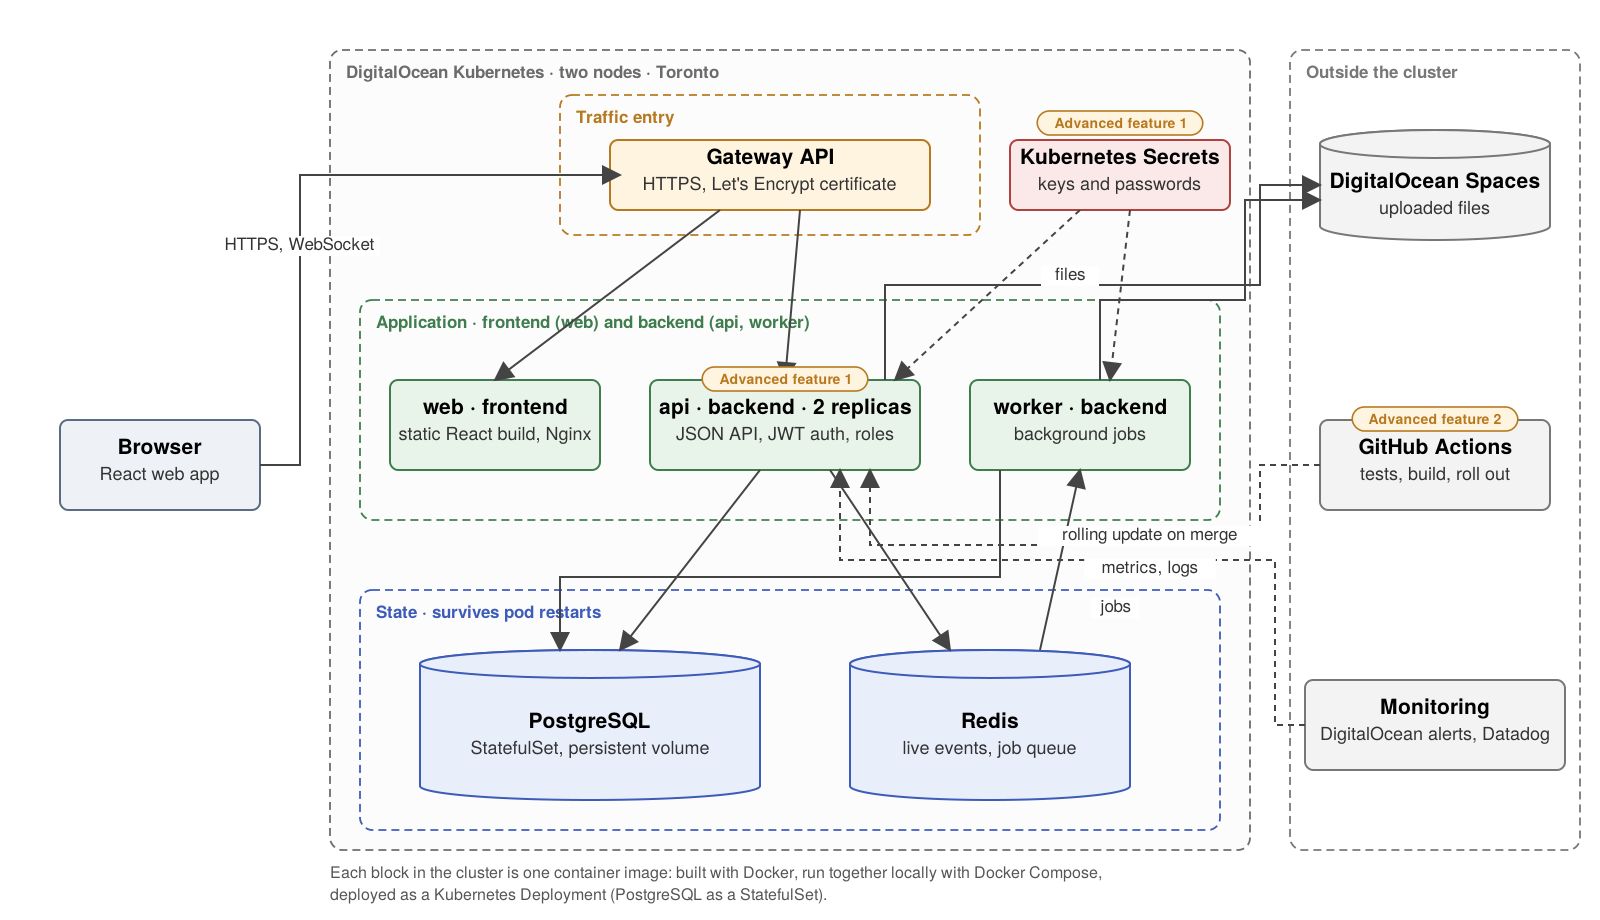
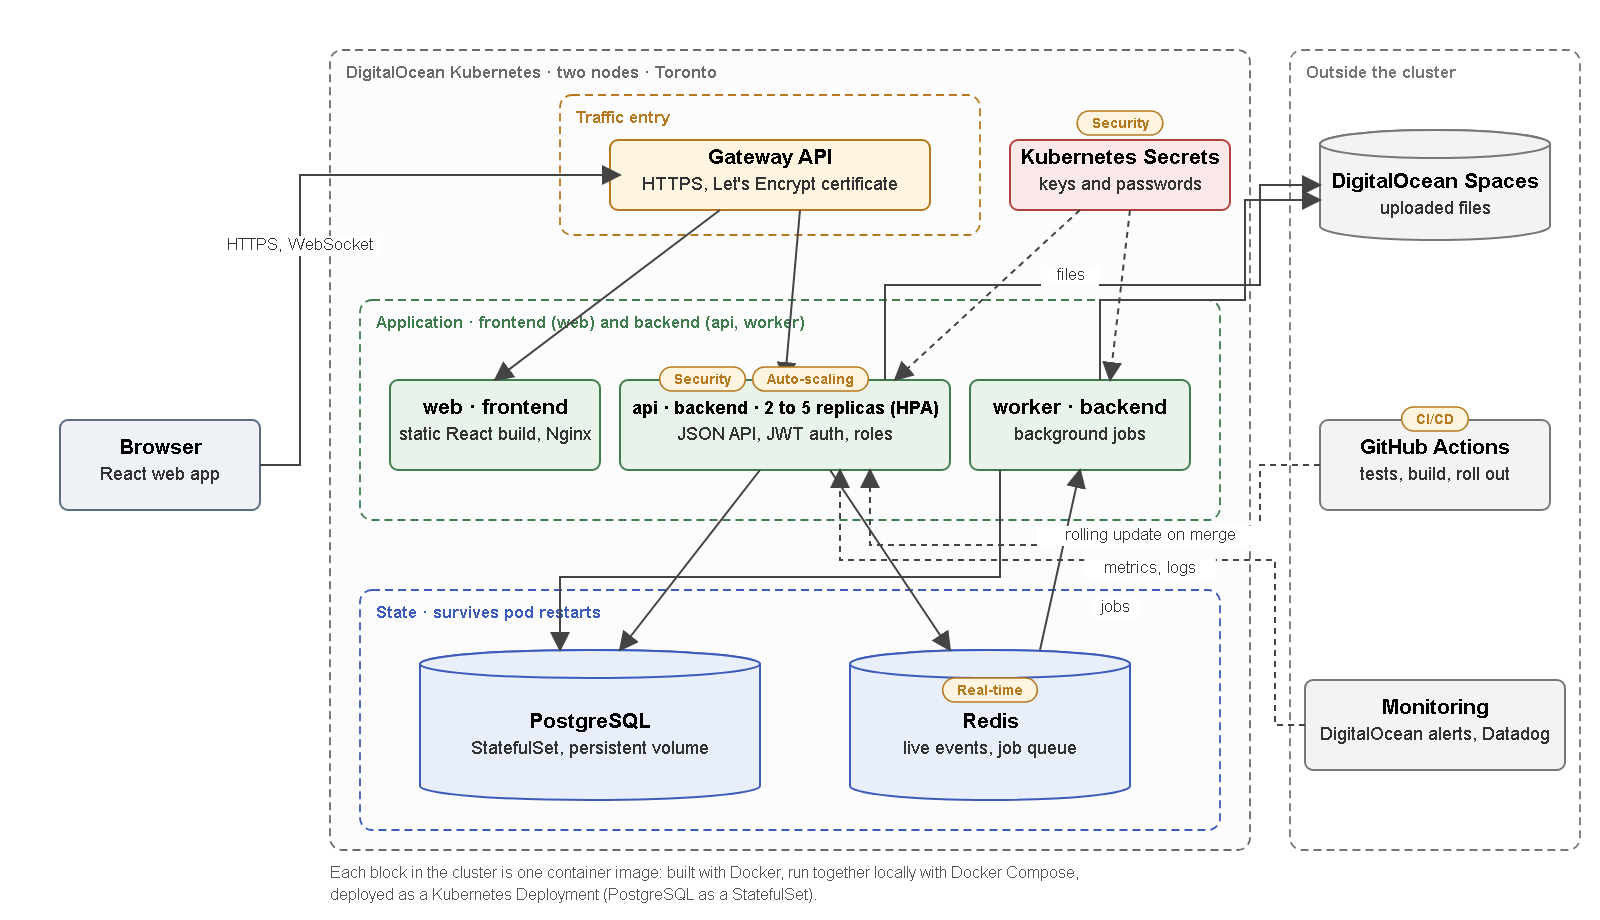
docs(img): diagram badges name the four committed advanced features (Nabeegh)

diff --git a/ai-session.md b/ai-session.md
@@ -125,3 +125,19 @@ Use a topology spread constraint on `kubernetes.io/hostname` with `maxSkew: 1` r
 - Checked against the sources: the Kubernetes topology spread and node assignment pages, live on 6 November. The default spread does not score nodes missing a zone label, and `kubectl get nodes` showed our nodes have none, so the real reason is stronger than the first draft's. The `ScheduleAnyway` reason was corrected to a drained or lost node, because with one node the skew is zero either way.
 - Tested: the check was pushed first and failed in CI (run 42286395192); with the constraint it passed (run 42287294841). An independent review also made the check assert `ScheduleAnyway` and the hash, which it had let slip.
 - Left open in the pull request: `ScheduleAnyway` is a preference, and spreading is not rebalanced after a scale-down.
+
+## Component diagram after the advanced-feature change (#69), 6 November 2026
+
+### Prompt
+
+Section 2.7 now commits four advanced features, but the diagram still shows two generic "Advanced feature" badges and "2 replicas". My plan: rename the existing badges to Security and CI/CD, add Real-time on Redis and Auto-scaling on the api in the same style, show the autoscaler's range on the api box, and re-render the PNG at the same size without changing the proposal text. Where do the new badges and the longer api title fit without covering lines or text?
+
+### AI Response
+
+At 21 px the new api title measures 357 px against a 270 px box, so widen the box to 330 px around the same centre and set that title at 18 px. Put the two api badges side by side, left of the line that leaves the box at x = 885. Move the Redis badge inside the cylinder top, because on the rim it would cover the arrowhead from the api. Size each badge to its text with the old badges' padding.
+
+### What Your Team Did With It
+
+- Measured rather than estimated: text widths came from the browser's own font metrics, and a script over the rendered SVG checked for overlapping text, badges covering other labels, and titles outside their boxes. It found none.
+- Looked at the rendered PNG: every label is readable. The Gateway arrow still ends on the api badge, as it did before.
+- Kept as it was: the image paths and captions in the README and the proposal; the proposal text and word count did not change.

diff --git a/docs/BUILD_LOG.md b/docs/BUILD_LOG.md
@@ -58,3 +58,10 @@ Entry format: what was done; decision and the option it beat; evidence; sources 
 - **Decision:** a topology spread constraint on `kubernetes.io/hostname`, `maxSkew: 1`, `ScheduleAnyway`, with `matchLabelKeys: [pod-template-hash]`. Required pod anti-affinity was rejected: one pod per node would leave replicas 3 to 5 and the rolling-update surge pod Pending on two nodes. `DoNotSchedule` was rejected: a drained or lost node still counts as a domain, so replacement pods would wait.
 - **Check first:** a CI step asserts the constraint in both rendered overlays. Run 42286395192 failed on the current manifests; run 42287294841 passed with the constraint.
 - **Sources (checked 6 Nov):** [Pod Topology Spread Constraints](https://kubernetes.io/docs/concepts/scheduling-eviction/topology-spread-constraints/), [Assigning Pods to Nodes](https://kubernetes.io/docs/concepts/scheduling-eviction/assign-pod-node/).
+
+### Component diagram names the four committed advanced features
+
+- **Changed:** the two generic badges ("Advanced feature 1" and "2") now read Security (on Kubernetes Secrets and the api) and CI/CD (on GitHub Actions). New badges in the same style: Real-time on Redis and Auto-scaling on the api, matching proposal section 2.7. The api box reads "2 to 5 replicas (HPA)", matching the HorizontalPodAutoscaler in `k8s/base/api.yaml`.
+- **Layout:** the longer api title needed a wider box (330 px, same centre, so every arrow still meets it) and an 18 px title, the only title below 21 px. The Real-time badge sits inside the top of the Redis cylinder, because on the rim it would hide the arrowhead from the api.
+- **Checked:** the PNG was re-rendered from the SVG at 1,600 × 920 in headless Chrome. A script over the rendered SVG found no overlapping text, every badge label inside its badge, and every title inside its box. The PNG was also inspected by eye.
+- **Provenance:** both files keep the content-credentials (C2PA) manifest they carried since 3 November, in the SVG's metadata and the PNG's `caBX` chunk. It was signed for the earlier content, so a C2PA validator will now report that the files changed after signing.
